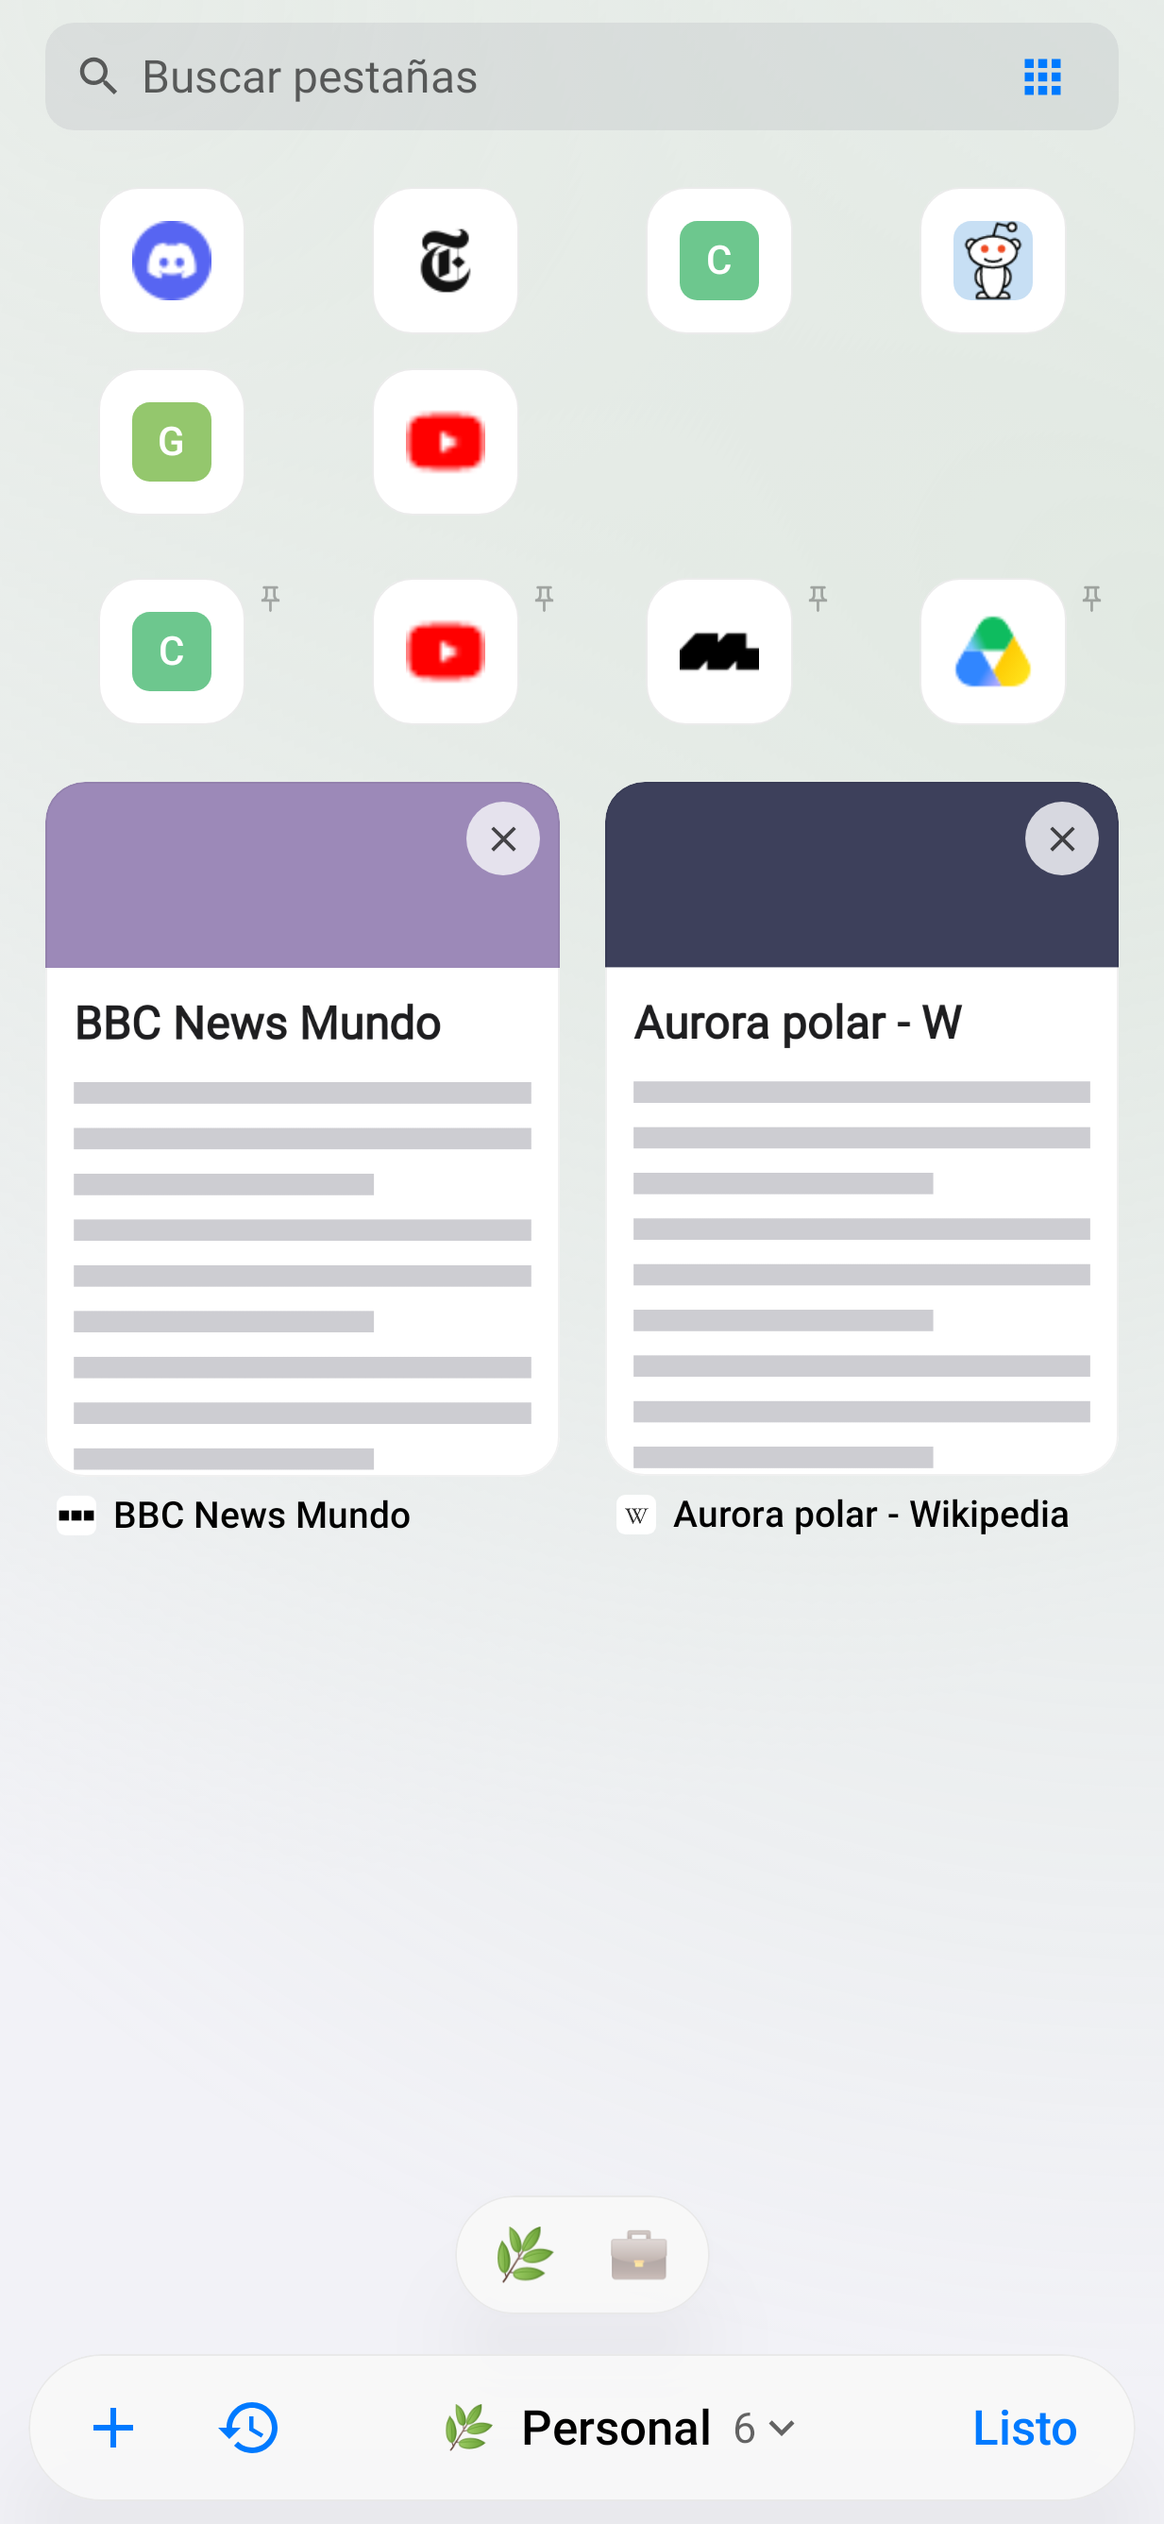
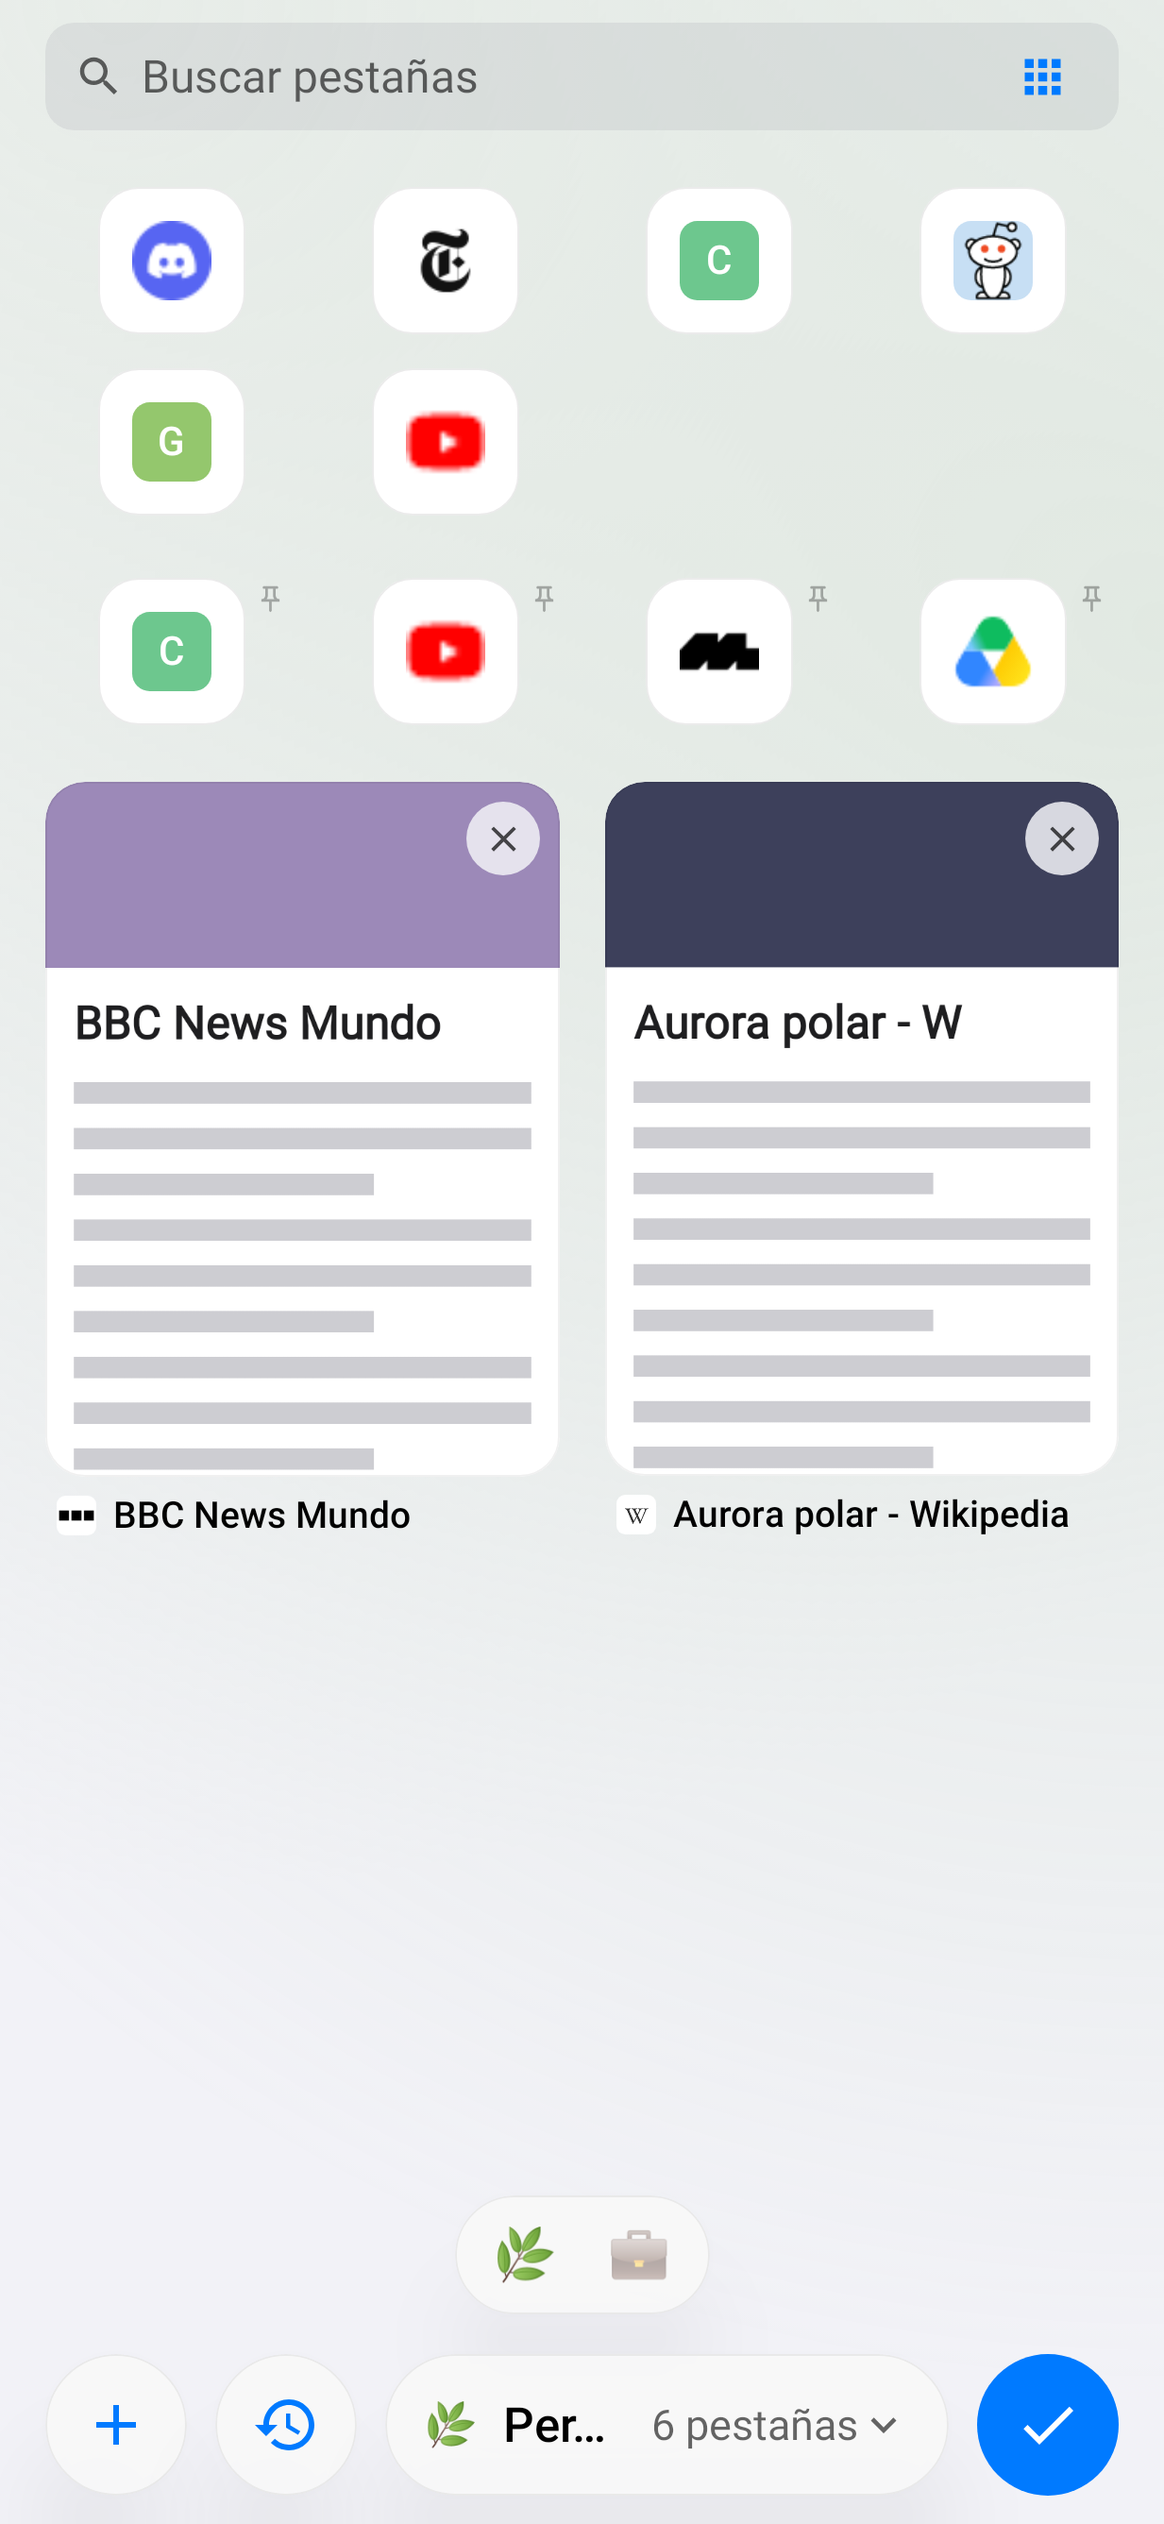
Android: diseño de Safari en iOS (barra compacta y vista de pestañas)
- Nuevo diseño de barra "Compacta", como Safari en iOS: una sola píldora flotante con atrás, el sitio y "⋯", que abre un menú vertical. La página pasa por debajo y la píldora se encoge al bajar.
- Ajustes → Diseño → Diseño de la barra: Compacta, Abajo o Arriba.
- Vista de pestañas con la barra de Safari: botones redondos flotantes (+ e historial), la píldora del grupo al centro y una palomita azul para volver.

Claude-Session: https://claude.ai/code/session_01NYtWFK9ernQgkQbtZWdHMY

Changed region(s): [[0.3698, 0.9315, 0.6164, 0.9936], [0.8321, 0.9315, 0.9554, 0.9936], [0.1849, 0.9315, 0.2774, 0.9936]]

diff --git a/android/app/src/main/java/app/kaze/browser/ui/screens/BrowserChrome.kt b/android/app/src/main/java/app/kaze/browser/ui/screens/BrowserChrome.kt
@@ -4,6 +4,9 @@
 
 package app.kaze.browser.ui.screens
 
+import androidx.compose.material.icons.outlined.GridView
+import androidx.compose.foundation.layout.fillMaxHeight
+import androidx.compose.animation.core.animateDpAsState
 import androidx.compose.ui.draw.alpha
 import androidx.compose.runtime.CompositionLocalProvider
 import androidx.compose.foundation.verticalScroll
@@ -147,7 +150,13 @@ fun SafariBottomBar(
     onSelectTab: (Tab) -> Unit = {},
     /** Barra arriba (uso tipo escritorio) en vez de abajo. */
     top: Boolean = false,
+    /** Diseño compacto de Safari: una sola píldora flotante (atrás · sitio · ⋯). */
+    compact: Boolean = false,
 ) {
+    if (compact) {
+        CompactBar(tab, space, tabCount, collapsed, a, modifier)
+        return
+    }
     AnimatedContent(
         targetState = collapsed,
         // Se funde y crece desde abajo con un resorte suave (sin escalar: no hay saltos ni temblores).
@@ -660,6 +669,98 @@ fun HistoryPopup(tab: Tab, direction: Int, onGo: (Int) -> Unit, onDismiss: () ->
                         }
                     }
                 }
+            }
+        }
+    }
+}
+
+/**
+ * Barra compacta de Safari: una píldora flotante con atrás, el sitio y "⋯". Al bajar por la página
+ * se encoge; "⋯" abre un menú vertical con el resto de acciones. Deslizar hacia arriba abre las pestañas.
+ */
+@Composable
+private fun CompactBar(tab: Tab, space: Space?, tabCount: Int, collapsed: Boolean, a: ChromeActions, modifier: Modifier) {
+    val k = LocalKaze.current
+    var menu by remember { mutableStateOf(false) }
+    val height by animateDpAsState(if (collapsed) 38.dp else 52.dp, spring(0.8f, 420f), label = "compactH")
+    val side by animateDpAsState(if (collapsed) 70.dp else 14.dp, spring(0.8f, 420f), label = "compactW")
+    Box(modifier.fillMaxWidth().navigationBarsPadding().padding(start = side, end = side, bottom = 8.dp)) {
+        Row(
+            Modifier.fillMaxWidth().height(height).glass(RoundedCornerShape(50), 16f)
+                .pointerInput(Unit) {
+                    var total = 0f
+                    detectVerticalDragGestures(onDragStart = { total = 0f }, onDragEnd = { if (total < -50) a.onTabs() }) { c, dy -> c.consume(); total += dy }
+                },
+            verticalAlignment = Alignment.CenterVertically,
+        ) {
+            if (!collapsed) {
+                ToolbarIcon(Icons.AutoMirrored.Outlined.ArrowBackIos, "Atrás", enabled = tab.canGoBack, onLong = { a.onHistoryMenu(-1) }, onClick = a.onBack)
+            }
+            Row(
+                Modifier.weight(1f).fillMaxHeight().clip(RoundedCornerShape(50))
+                    .clickable { if (collapsed) a.onExpand() else a.onAddress() },
+                horizontalArrangement = Arrangement.Center,
+                verticalAlignment = Alignment.CenterVertically,
+            ) {
+                if (tab.isSecure && !tab.isStart) {
+                    Icon(Icons.Outlined.Lock, null, tint = k.ink55, modifier = Modifier.size(12.dp))
+                    Spacer(Modifier.width(5.dp))
+                }
+                Text(
+                    addressLabel(tab).ifBlank { "Buscar o escribir dirección" },
+                    style = (if (collapsed) KazeType.footnote else KazeType.body).copy(fontWeight = FontWeight.Medium),
+                    color = if (tab.isStart) k.ink55 else k.ink, maxLines = 1, overflow = TextOverflow.Ellipsis,
+                )
+            }
+            if (!collapsed) {
+                ToolbarIcon(Icons.Outlined.MoreHoriz, "Más", onLong = a.onShare, onClick = { menu = true })
+            }
+        }
+        if (tab.loading) {
+            val progress by animateFloatAsState(tab.progress / 100f, tween(160), label = "cp")
+            Box(Modifier.align(Alignment.BottomCenter).padding(horizontal = 24.dp).fillMaxWidth(progress.coerceIn(0.05f, 1f)).height(2.dp).clip(RoundedCornerShape(50)).background(k.accent))
+        }
+    }
+    if (menu) CompactMenu(tab, tabCount, a) { menu = false }
+}
+
+/** Menú vertical de la barra compacta (como el "⋯" de Safari en iOS). */
+@Composable
+private fun CompactMenu(tab: Tab, tabCount: Int, a: ChromeActions, onDismiss: () -> Unit) {
+    val k = LocalKaze.current
+    var shown by remember { mutableStateOf(false) }
+    LaunchedEffect(Unit) { shown = true }
+    Box(
+        Modifier.fillMaxSize().clickable(interactionSource = remember { androidx.compose.foundation.interaction.MutableInteractionSource() }, indication = null, onClick = onDismiss),
+        contentAlignment = Alignment.BottomEnd,
+    ) {
+        androidx.compose.animation.AnimatedVisibility(
+            shown,
+            enter = fadeIn(tween(140)) + scaleIn(spring(0.75f, 520f), initialScale = 0.6f, transformOrigin = androidx.compose.ui.graphics.TransformOrigin(1f, 1f)),
+        ) {
+            Column(
+                Modifier.navigationBarsPadding().padding(end = 16.dp, bottom = 70.dp).width(250.dp)
+                    .glass(RoundedCornerShape(22.dp), 20f).padding(vertical = 6.dp),
+            ) {
+                @Composable
+                fun item(icon: androidx.compose.ui.graphics.vector.ImageVector, label: String, enabled: Boolean = true, action: () -> Unit) {
+                    Row(
+                        Modifier.fillMaxWidth().clickable(enabled = enabled) { onDismiss(); action() }.padding(horizontal = 16.dp, vertical = 11.dp),
+                        verticalAlignment = Alignment.CenterVertically,
+                    ) {
+                        Text(label, style = KazeType.body, color = if (enabled) k.ink else k.ink35, modifier = Modifier.weight(1f))
+                        Icon(icon, null, tint = if (enabled) k.ink else k.ink35, modifier = Modifier.size(20.dp))
+                    }
+                }
+                item(Icons.Outlined.Translate, "Opciones de la página (AA)", enabled = !tab.isStart, action = a.onAa)
+                item(Icons.AutoMirrored.Outlined.ArrowForwardIos, "Adelante", enabled = tab.canGoForward, action = a.onForward)
+                item(Icons.Outlined.Refresh, "Recargar", enabled = !tab.isStart, action = a.onReload)
+                item(Icons.Outlined.Home, "Página de inicio", action = a.onHome)
+                Box(Modifier.fillMaxWidth().padding(horizontal = 16.dp, vertical = 4.dp).height(0.5.dp).background(k.separator))
+                item(Icons.Outlined.Add, "Nueva pestaña", action = a.onNewTab)
+                item(Icons.Outlined.GridView, "Pestañas ($tabCount)", action = a.onTabs)
+                item(Icons.AutoMirrored.Outlined.MenuBook, "Favoritos e historial", action = a.onLibrary)
+                item(Icons.Outlined.MoreHoriz, "Más opciones", action = a.onShare)
             }
         }
     }

diff --git a/android/app/src/main/java/app/kaze/browser/ui/screens/TabsScreen.kt b/android/app/src/main/java/app/kaze/browser/ui/screens/TabsScreen.kt
@@ -4,6 +4,7 @@
 
 package app.kaze.browser.ui.screens
 
+import androidx.compose.material.icons.outlined.Check
 import androidx.compose.ui.graphics.Color
 import androidx.compose.ui.text.input.ImeAction
 import androidx.compose.foundation.text.KeyboardOptions
@@ -345,17 +346,22 @@ fun TabsScreen(
         }
 
         // Barra inferior: + · grupo · Listo
+        // Como Safari: botones redondos flotantes (+ e historial), la píldora del grupo al centro y ✓ para volver.
         Row(
             Modifier.align(Alignment.BottomCenter).navigationBarsPadding().fillMaxWidth()
-                .padding(horizontal = 10.dp, vertical = 8.dp).glass(RoundedCornerShape(26.dp))
-                .padding(horizontal = 6.dp, vertical = 2.dp),
+                .padding(horizontal = 16.dp, vertical = 10.dp),
             verticalAlignment = Alignment.CenterVertically,
+            horizontalArrangement = Arrangement.spacedBy(10.dp),
         ) {
-            ToolbarIcon(Icons.Outlined.Add, "Nueva pestaña", onClick = onNewTab)
-            ToolbarIcon(Icons.Outlined.History, "Historial", onClick = onHistory)
+            Box(Modifier.size(50.dp).glass(CircleShape), contentAlignment = Alignment.Center) {
+                ToolbarIcon(Icons.Outlined.Add, "Nueva pestaña", onClick = onNewTab)
+            }
+            Box(Modifier.size(50.dp).glass(CircleShape), contentAlignment = Alignment.Center) {
+                ToolbarIcon(Icons.Outlined.History, "Historial", onClick = onHistory)
+            }
             Row(
-                Modifier.weight(1f).height(48.dp).clip(RoundedCornerShape(12.dp)).clickable(onClick = onGroups)
-                    .semantics { contentDescription = "Grupos de pestañas" },
+                Modifier.weight(1f).height(50.dp).glass(RoundedCornerShape(50)).clickable(onClick = onGroups)
+                    .semantics { contentDescription = "Grupos de pestañas" }.padding(horizontal = 14.dp),
                 horizontalArrangement = Arrangement.Center,
                 verticalAlignment = Alignment.CenterVertically,
             ) {
@@ -363,14 +369,16 @@ fun TabsScreen(
                 Text(
                     if (space.id == Space.PRIVATE_ID) "Privada" else space.name,
                     style = KazeType.headline, color = k.ink, maxLines = 1, overflow = TextOverflow.Ellipsis,
+                    modifier = Modifier.weight(1f, fill = false),
                 )
-                Text("  ${pinned.size + store.normal(space.id).size}", style = KazeType.subhead, color = k.ink55)
+                Text("  ${pinned.size + store.normal(space.id).size}", style = KazeType.subhead, color = k.ink55, maxLines = 1)
                 Icon(Icons.Outlined.KeyboardArrowDown, null, tint = k.ink55, modifier = Modifier.size(18.dp))
             }
-            Text(
-                "Listo", style = KazeType.headline, color = k.accent,
-                modifier = Modifier.clip(RoundedCornerShape(10.dp)).clickable(onClick = onDone).padding(horizontal = 14.dp, vertical = 12.dp),
-            )
+            Box(
+                Modifier.size(50.dp).clip(CircleShape).background(k.accent).clickable(onClick = onDone)
+                    .semantics { contentDescription = "Listo" },
+                contentAlignment = Alignment.Center,
+            ) { Icon(Icons.Outlined.Check, null, tint = Color.White, modifier = Modifier.size(24.dp)) }
         }
 
         // Carpeta abierta: se abre desde el centro con sus pestañas.

diff --git a/android/app/src/main/java/app/kaze/browser/MainActivity.kt b/android/app/src/main/java/app/kaze/browser/MainActivity.kt
@@ -513,7 +513,9 @@ class MainActivity : ComponentActivity() {
         val imeVisible = WindowInsets.isImeVisible
         val showBar = !ui.fullscreen && tab != null && !showTabs && actions != null && (!imeVisible || finding)
         val density = LocalDensity.current
-        val barTop = app.settings.barTop
+        val layout = app.settings.barLayout.let { if (it == "bottom" && app.settings.barTop) "top" else it }
+        val barTop = layout == "top"
+        val barCompact = layout == "compact"
         val collapsedPx = with(density) { 32.dp.roundToPx() } + if (barTop) 0 else WindowInsets.navigationBars.getBottom(density)
         fun onBarHeight(h: Int) {
             if (!collapsed && h > barExpandedPx) barExpandedPx = h
@@ -539,7 +541,12 @@ class MainActivity : ComponentActivity() {
                             with(density) {
                                 val inset = (if (showBar) pageBottomPx.coerceAtLeast(collapsedPx) else 0).toDp()
                                 // Barra arriba: la página empieza debajo de ella (y deja libres los botones de Android).
-                                if (barTop) Modifier.padding(top = inset).navigationBarsPadding() else Modifier.padding(bottom = inset)
+                                when {
+                                    barTop -> Modifier.padding(top = inset).navigationBarsPadding()
+                                    // Compacta: la página pasa por debajo de la píldora flotante, como en Safari.
+                                    barCompact -> Modifier.navigationBarsPadding()
+                                    else -> Modifier.padding(bottom = inset)
+                                }
                             },
                         )
                         .then(if (showBar || ui.fullscreen) Modifier else Modifier.navigationBarsPadding()),
@@ -579,6 +586,7 @@ class MainActivity : ComponentActivity() {
                             tabs = (store.pinned(tab.spaceId) + store.normal(tab.spaceId)).filter { it.isPrivate == tab.isPrivate },
                             onSelectTab = { t -> snapshot { open(t) } },
                             top = barTop,
+                            compact = barCompact,
                         )
                     }
                 }

diff --git a/android/app/src/main/java/app/kaze/browser/ui/sheets/SettingsAndHistory.kt b/android/app/src/main/java/app/kaze/browser/ui/sheets/SettingsAndHistory.kt
@@ -230,7 +230,10 @@ fun SettingsSheet(onDismiss: () -> Unit, onRestart: () -> Unit, onCheckUpdates: 
             IosSectionHeader("Diseño")
             IosGroup {
                 Choice("Estilo", UiStyle.entries, s.uiStyle, { it.label }) { s.uiStyle = it }
-                Choice("Barra de direcciones", listOf(false, true), s.barTop, { if (it) "Arriba" else "Abajo" }) { s.barTop = it }
+                Choice(
+                    "Diseño de la barra", listOf("compact", "bottom", "top"), if (s.barTop && s.barLayout == "bottom") "top" else s.barLayout,
+                    { when (it) { "compact" -> "Compacta"; "top" -> "Arriba"; else -> "Abajo" } },
+                ) { s.barLayout = it; s.barTop = it == "top" }
                 Choice("Color", AccentColor.entries, s.accent, { it.label }) { s.accent = it }
                 Choice("Tema", ThemeMode.entries, s.theme, { it.label }) { s.theme = it; needsRestart = true }
                 Choice("Tamaño del texto de las páginas", listOf(85, 100, 115, 130, 150, 175), s.textSize, { "$it %" }) {

diff --git a/android/app/src/test/java/app/kaze/browser/ScreenshotTest.kt b/android/app/src/test/java/app/kaze/browser/ScreenshotTest.kt
@@ -195,6 +195,21 @@ class ScreenshotTest {
         com.github.takahirom.roborazzi.captureScreenRoboImage("../../docs/capturas/android-actualizacion.png")
     }
 
+    @Test fun barra_compacta() {
+        val tab = app.store.normal(app.store.currentSpaceId).first { it.url.contains("wikipedia") }
+        tab.canGoBack = true
+        compose.setContent {
+            Themed(false) {
+                Box(Modifier.fillMaxSize().background(Color.White)) {
+                    FakePage()
+                    SafariBottomBar(tab, app.store.spaceById(tab.spaceId), 7, false, actions(), Modifier.align(Alignment.BottomCenter), compact = true)
+                }
+            }
+        }
+        compose.waitForIdle()
+        compose.onRoot().captureRoboImage("../../docs/capturas/android-barra-compacta.png")
+    }
+
     @Test fun navegador_barra_reducida() {
         val tab = app.store.normal(app.store.currentSpaceId).first { it.url.contains("wikipedia") }
         compose.setContent {

diff --git a/android/app/src/main/java/app/kaze/browser/data/Settings.kt b/android/app/src/main/java/app/kaze/browser/data/Settings.kt
@@ -64,6 +64,8 @@ class Settings(context: Context) {
     var tabletMode by pref("tablet_mode", "auto")
     /** Barra de direcciones arriba (uso tipo escritorio) en vez de abajo. */
     var barTop by pref("bar_top", false)
+    /** Diseño de la barra, como en Safari: "compact" (una píldora flotante), "bottom" o "top". */
+    var barLayout by pref("bar_layout", "bottom")
     /** Sitios (dominios) donde el usuario apagó el bloqueo de rastreadores, separados por coma. */
     var trackingOff by pref("tracking_off", "")
     /** En tableta, pedir la versión de escritorio de las páginas. */
